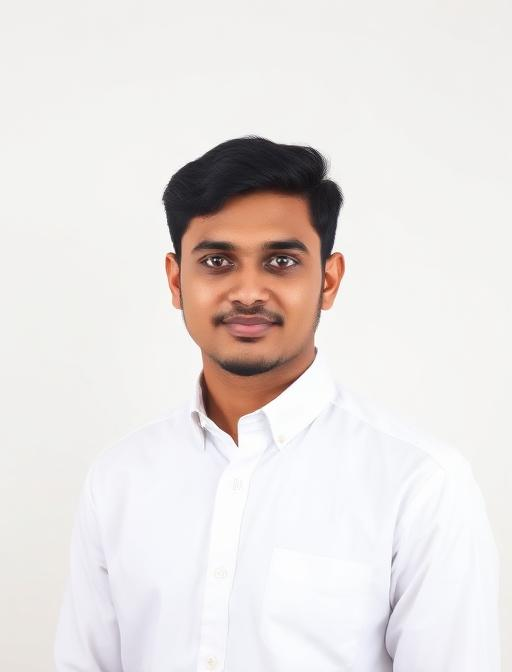
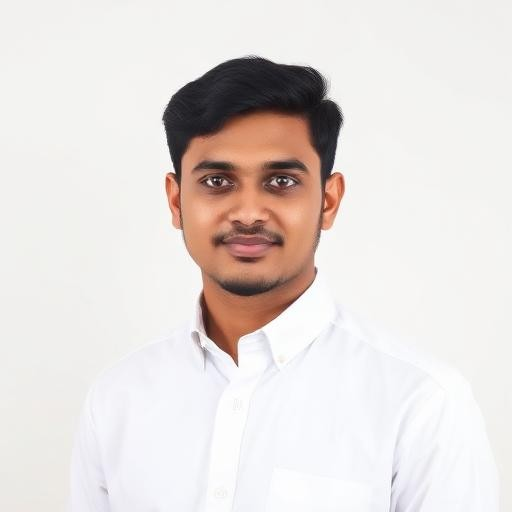
add some minute details

diff --git a/src/components/nav.jsx b/src/components/nav.jsx
@@ -137,35 +137,38 @@ export const Nav = () => {
               />
             </div>
             <div className="flex w-full flex-col items-center">
-              <label className="mb-1 block text-xs font-semibold text-gray-700">
-                Captcha
-              </label>
-              <div className="mb-2 flex items-center gap-3">
-                <span className="rounded bg-gray-100 px-4 py-2 font-mono text-lg tracking-widest select-none">
-                  aLucjm
-                </span>
-                <button
-                  type="button"
-                  className="focus:outline-none"
-                  tabIndex={-1}
-                  aria-label="Refresh Captcha"
-                >
-                  <svg
-                    xmlns="http://www.w3.org/2000/svg"
-                    className="h-6 w-6 text-green-500"
-                    fill="none"
-                    viewBox="0 0 24 24"
-                    stroke="currentColor"
+              <div className="flex">
+                <label className="mb-1 flex items-center justify-evenly text-xs font-semibold text-gray-700">
+                  Captcha
+                </label>
+                <div className="mb-2 flex items-center gap-3">
+                  <span className="rounded bg-gray-100 px-4 py-2 font-mono text-lg tracking-widest select-none">
+                    aLucjm
+                  </span>
+                  <button
+                    type="button"
+                    className="focus:outline-none"
+                    tabIndex={-1}
+                    aria-label="Refresh Captcha"
                   >
-                    <path
-                      strokeLinecap="round"
-                      strokeLinejoin="round"
-                      strokeWidth={2}
-                      d="M4 4v5h.582M20 20v-5h-.581M5.5 19A7.963 7.963 0 014 12c0-4.418 3.582-8 8-8a7.963 7.963 0 017.5 7M19 5l-7 7-7-7"
-                    />
-                  </svg>
-                </button>
+                    <svg
+                      xmlns="http://www.w3.org/2000/svg"
+                      className="h-6 w-6 text-green-500"
+                      fill="none"
+                      viewBox="0 0 24 24"
+                      stroke="currentColor"
+                    >
+                      <path
+                        strokeLinecap="round"
+                        strokeLinejoin="round"
+                        strokeWidth={2}
+                        d="M4 4v5h.582M20 20v-5h-.581M5.5 19A7.963 7.963 0 014 12c0-4.418 3.582-8 8-8a7.963 7.963 0 017.5 7M19 5l-7 7-7-7"
+                      />
+                    </svg>
+                  </button>
+                </div>
               </div>
+
               <span className="mb-1 block text-center text-xs text-gray-500">
                 Type the captcha here
               </span>

diff --git a/src/App.jsx b/src/App.jsx
@@ -2,13 +2,24 @@ import { useState } from "react";
 import "./App.css";
 import { Nav } from "./components/nav";
 import { Footer } from "./components/footer";
+import { MobNav } from "./components/mobNav";
+import { Mobhero } from "./components/mobhero";
 
 function App() {
   const [count, setCount] = useState(0);
 
   return (
     <>
-      <Nav />
+      <MobNav />
+
+      <Mobhero
+        url={"/../../assets/user-photo.jpg"}
+        name={"ANKIT SHARMA"}
+        passno={"7502092530442"}
+        fromDate={"19/09/2025"}
+        toDate={"18/10/2025"}
+        qrurl={"../../assets/qr-code.png"}
+      />
 
       <Footer />
     </>

diff --git a/src/components/footer.jsx b/src/components/footer.jsx
@@ -3,10 +3,8 @@ import React from "react";
 export const Footer = () => {
   return (
     <>
-      <p className="bg-[#01a2a6] p-14 text-center">
-        <b>Copyright © - Delhi e-Governance Society</b>
-
-        <span>2025</span>
+      <p className="bg-[#01a2a6] py-14 text-center text-[13px]">
+        <b>Copyright © - Delhi e-Governance Society 2025</b>
       </p>
     </>
   );
